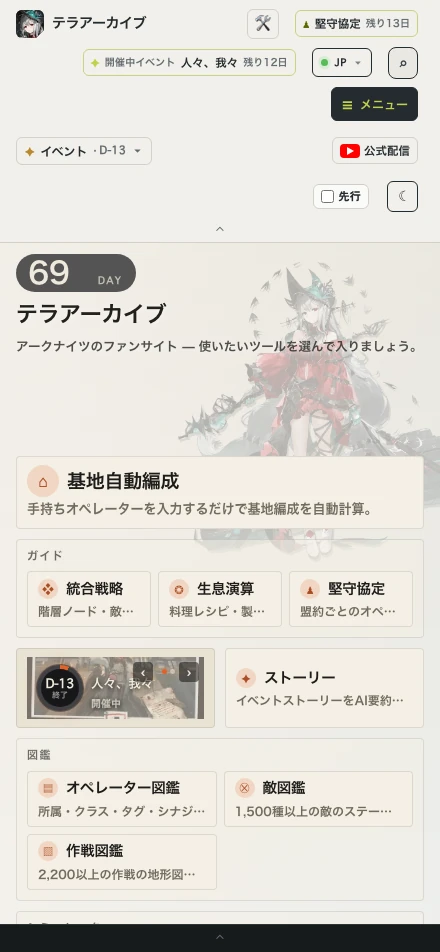
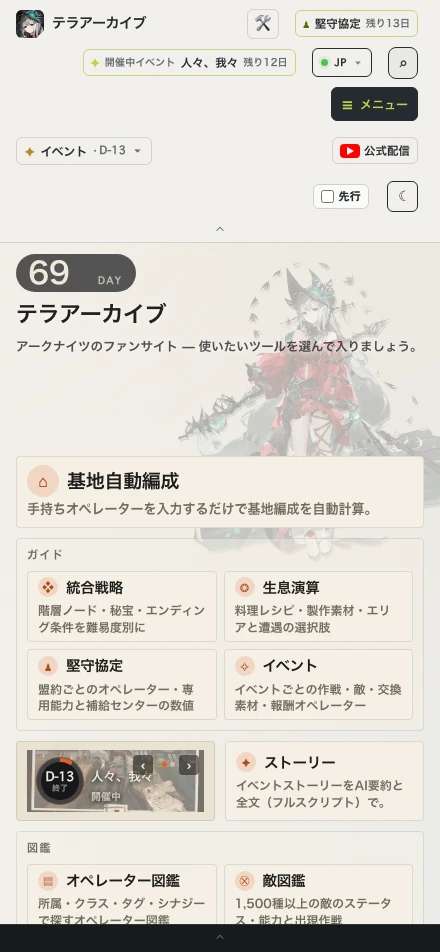
홈 타일 설명은 자르지 말고 줄을 바꾼다 + 소개 홈 스샷 재촬영
묶음 셋을 한 줄에 세우며 칸이 200px 안팎으로 좁아지자, 한 줄 + …로 자르던
설명이 열 몇 자에서 끊겼다 — "층별 노드·적 도감·유물·엔…" 처럼 뜻이 끊긴
토막만 남고 마우스를 올려도 확인할 길이 없었다 (사용자 제보).

설명이 줄을 바꿔 다 보이게 하고, 문구 자체를 좁은 칸 두 줄에 맞춰 줄였다.
영어는 한국어보다 한참 길어(최대 85자) 네 줄이 필요했던 탓에 여섯 칸이
잘리고 있었다 — 한·영·일 열두 줄을 전부 다시 썼다. 작전 시뮬레이터 설명은
사전에 아예 없어 EN/JA에 한국어가 그대로 나가던 것도 이번에 채웠다.

1920·1440·1024·940과 모바일, 세 언어 모두 잘림 0을 확인했다.

소개 페이지의 홈 화면 스샷 12장(3언어 × 라이트/다크 × 데스크탑/모바일)을
다시 찍어 R2에 올리고 SHOT_VER를 20260917b로 올렸다 — 종전 키가 이미 엣지에
박혀 있어 같은 날짜로는 새 캡처가 안 나간다.

diff --git a/app/i18n.tsx b/app/i18n.tsx
@@ -207,9 +207,9 @@ const D: Record<string, Pair> = {
 
   // 포탈 첫화면 (루트 /)
   "명일방주(아크나이츠) 팬사이트 — 필요한 도구를 골라 들어가세요.": ["An Arknights fansite — pick a tool and dive in.", "アークナイツのファンサイト — 使いたいツールを選んで入りましょう。"],
-  "소속·직군·태그·시너지로 필터·검색하는 오퍼레이터 도감": ["Operator database you can filter and search by faction, class, tag, and synergy.", "所属・クラス・タグ・シナジーで絞り込み検索できるオペレーター図鑑。"],
+  "소속·직군·태그·시너지로 찾는 오퍼레이터 도감": ["Operators by faction, class, tag and synergy", "所属・クラス・タグ・シナジーで探すオペレーター図鑑"],
   "보유 오퍼만 입력하면 기반시설 편성을 자동으로 계산": ["Enter your roster and it auto-builds your RIIC base layout.", "手持ちオペレーターを入力するだけで基地編成を自動計算。"],
-  "공개모집 태그 조합으로 확정·고성급 오퍼를 탐색": ["Find guaranteed and high-rarity operators from recruitment tag combos.", "公開求人タグの組み合わせから確定・高レアオペレーターを探索。"],
+  "공개모집 태그 조합으로 확정·고성급 탐색": ["Guaranteed and high-rarity picks from tag combos", "公開求人タグの組み合わせから確定・高レアを探索"],
   "재료 파밍 효율표와 오퍼 육성 비용 시뮬레이션": ["Material farming efficiency table and operator upgrade-cost simulator.", "素材周回効率表とオペレーター育成コストシミュレーション。"],
   "이벤트 스토리를 컷씬과 함께 10분 분량으로 요약": ["Event stories summarized with cutscenes in a 10-minute read.", "イベントストーリーをカットシーンと共に10分で要約。"],
   "각 기능이 무엇이고 언제 쓰는지 안내": ["What each tool is and when to use it.", "各機能が何で、いつ使うのかを案内。"],
@@ -1964,7 +1964,7 @@ const D: Record<string, Pair> = {
   "게임에 표기된 빈도입니다. 실측 드랍률과 이성 효율은 재료파밍 도우미에서 봅니다.": ["These are the in-game frequency labels. For measured drop rates and sanity efficiency, see the Material Farming Helper.", "ゲーム内表記の頻度です。実測ドロップ率と理性効率は素材周回ヘルパーで確認できます。"],
   "작전 도감 - 명일방주 스테이지 지형·드랍 | 테라 아카이브": ["Stage Handbook - Arknights Stage Maps & Drops | Terra Archive", "作戦図鑑 - アークナイツ ステージ地形・ドロップ | テラアーカイブ"],
   "{code} {name} - 명일방주 작전 | 테라 아카이브": ["{code} {name} - Arknights Stage | Terra Archive", "{code} {name} - アークナイツ 作戦 | テラアーカイブ"],
-  "작전 2,200여 개의 지형 도면과 등장 적·드랍": ["Terrain layouts, enemies and drops for 2,200+ stages", "2,200以上の作戦の地形図と出現する敵・ドロップ"],
+  "작전 2,200여 개의 도면과 등장 적·드랍": ["Layouts, enemies and drops for 2,200+ stages", "2,200以上の作戦の地形図と敵・ドロップ"],
 
   // ── 공개채용 도우미 ────────────────────────────────────────────────────────────
   "공개모집 도우미": ["Recruitment helper", "公開求人ヘルパー"],
@@ -2013,8 +2013,8 @@ const D: Record<string, Pair> = {
   "재료파밍 도우미": ["Material Farming Helper", "素材周回ヘルパー"],
   "오퍼 육성 시뮬": ["Upgrade Sim", "育成シミュ"],
   "육성 비용 계산": ["Upgrade cost", "育成コスト"],
-  "정예화 재료의 최적 파밍 스테이지와 이성 효율표": ["Best farming stages and sanity efficiency for Elite materials", "昇進素材の最適ステージと理性効率表"],
-  "오퍼 육성에 필요한 용문폐·재료 총량을 단계별로 계산": ["Calculate the LMD and materials needed to upgrade operators, step by step", "オペレーター育成に必要な龍門幣・素材の合計を段階ごとに計算"],
+  "정예화 재료의 최적 파밍지와 이성 효율표": ["Best farming stages and sanity efficiency", "昇進素材の最適ステージと理性効率表"],
+  "육성에 필요한 용문폐·재료 총량을 단계별로 계산": ["LMD and materials to reach your upgrade goals", "育成に必要な龍門幣・素材の合計を段階ごとに計算"],
   "재료파밍 도우미 - 명일방주 재료 파밍 효율표 | 테라 아카이브": ["Material Farming Helper - Arknights Material Farming Efficiency | Terra Archive", "素材周回ヘルパー - アークナイツ素材周回効率表 | テラアーカイブ"],
   "오퍼 육성 시뮬 - 명일방주 육성 비용 계산기 | 테라 아카이브": ["Operator Upgrade Sim - Arknights Upgrade Cost Calculator | Terra Archive", "オペレーター育成シミュ - アークナイツ育成コスト計算機 | テラアーカイブ"],
   "재료 파밍 & 오퍼 육성 시뮬레이션": ["Material Farming & Operator Upgrade Simulator", "素材周回＆オペレーター育成シミュレーター"],
@@ -2328,7 +2328,7 @@ const D: Record<string, Pair> = {
   "거부반응": ["Rejection", "拒絶反応"],
   "계시": ["Revelation", "啓示"],
   "통합전략 가이드 - 명일방주 통합전략 공략 | 테라 아카이브": ["Integrated Strategies Guide - Arknights IS Guide | Terra Archive", "統合戦略ガイド - アークナイツ統合戦略攻略 | テラアーカイブ"],
-  "층별 노드·적 도감·유물·엔딩 조건을 난이도별로 정리": ["Floor nodes, enemy handbook, relics, and ending requirements by difficulty", "階層ノード・敵図鑑・秘宝・エンディング条件を難易度別に整理"],
+  "층별 노드·유물·엔딩 조건을 난이도별로 정리": ["Floor nodes, relics and endings by difficulty", "階層ノード・秘宝・エンディング条件を難易度別に"],
   "이 테마는 CN 선행 데이터라 아직 한국어·중국어로만 제공됩니다.": ["This theme is based on advance CN-server data and is only available in Korean/Chinese for now.", "このテーマはCN先行データのため、現在は韓国語・中国語のみの提供です。"],
   "다른 테마는 준비 중": ["Other themes coming soon", "他のテーマは準備中"],
   "준비 중": ["Coming soon", "準備中"],
@@ -3143,8 +3143,8 @@ const D: Record<string, Pair> = {
   "{n}마리": ["{n} of them", "{n}体"],
   "처치 시 자금 {n}": ["{n} funds on kill", "撃破で資金{n}"],
   "승리 시 자금 {n}": ["{n} funds on win", "勝利で資金{n}"],
-  "맹약별 오퍼레이터·전용 능력·특훈 적·보급센터 수치를 정리": ["Operators by alliance, garrison abilities, training enemies and Supply Center numbers", "盟約ごとのオペレーター・専用能力・訓練用仮想敵・補給センターの数値"],
-  "이벤트별 작전·등장 적·교환 재화·보상 오퍼를 한자리에": ["Operations, enemies, exchange currencies and welfare operators, per event", "イベントごとの作戦・出現する敵・交換素材・報酬オペレーターをまとめて"],
+  "맹약별 오퍼레이터·전용 능력과 보급센터 수치": ["Alliance operators, abilities and Supply Center data", "盟約ごとのオペレーター・専用能力と補給センターの数値"],
+  "이벤트별 작전·적·교환 재화·보상 오퍼": ["Operations, enemies, currencies and welfare operators", "イベントごとの作戦・敵・交換素材・報酬オペレーター"],
   "맹약(진영·특성)별 오퍼레이터와 각자의 위수 협의 전용 능력, 특훈 적과 리더 적, 보급센터 수치를 게임 데이터에서 그대로 정리했습니다.": [
     "Operators grouped by alliance (nation and trait) with the garrison ability each one carries, plus Tactical Training and leader enemies and every Supply Center number — straight from the game data.",
     "盟約（国家・特性）ごとのオペレーターとそれぞれの専用能力、訓練用仮想敵とリーダー級の敵、補給センターの数値をゲームデータからそのまま整理しました。"],
@@ -3478,9 +3478,10 @@ const D: Record<string, Pair> = {
   "처음부터 고를 수 있는 전략입니다.": [
     "This strategy is available from the start.", "最初から選べる戦略です。"],
   // 포탈 타일 설명 — 사전에서 빠져 있어 EN/JA에 한국어가 나가던 두 줄 (2026-08-22 발견)
-  "요리 조합·제작 재료·지역과 조우 선택지를 정리": ["Recipes, crafting materials, areas and encounter choices", "料理レシピ・製作素材・エリアと遭遇の選択肢"],
-  "적 1,500여 종의 스탯·능력·면역과 등장 작전": ["Stats, abilities and immunities for 1,500+ enemies, plus where they appear", "1,500種以上の敵のステータス・能力・耐性と出現作戦"],
+  "요리 조합·제작 재료·지역과 조우 선택지": ["Recipes, materials, areas and encounter choices", "料理レシピ・製作素材・エリアと遭遇の選択肢"],
+  "적 1,500여 종의 스탯·능력과 등장 작전": ["Stats, abilities and appearances for 1,500+ enemies", "1,500種以上の敵のステータス・能力と出現作戦"],
   "아이템 1,400여 종의 설명·용도·획득처": ["Descriptions, uses and sources for 1,400+ items", "1,400種以上のアイテムの説明・用途・入手先"],
+  "적이 언제 어디서 나와 어디로 가는지 재생": ["When and where enemies spawn, and where they go", "敵がいつどこに現れどこへ向かうかを再生"],
 };
 
 export type T = (key: string, vars?: Record<string, string | number>) => string;

diff --git a/app/portal-themes.ts b/app/portal-themes.ts
@@ -44,37 +44,37 @@ export const PORTAL_TILES: PortalTile[] = [
   { id: "banner", label: "진행중 이벤트", area: "banner", kind: "banner", icon: "✦" },
   // ── 도감 묶음 (헤더 메뉴와 같은 구성) ──
   { id: "operator", label: "오퍼 백과사전", tab: "archive", area: "dex", kind: "plate", group: "dex",
-    desc: "소속·직군·태그·시너지로 필터·검색하는 오퍼레이터 도감", icon: "▤" },
+    desc: "소속·직군·태그·시너지로 찾는 오퍼레이터 도감", icon: "▤" },
   { id: "enemy", label: "적 도감", tab: "enemy", area: "dex", kind: "plate", group: "dex",
-    desc: "적 1,500여 종의 스탯·능력·면역과 등장 작전", icon: "⊗" },
+    desc: "적 1,500여 종의 스탯·능력과 등장 작전", icon: "⊗" },
   { id: "stage", label: "작전 도감", tab: "stage", area: "dex", kind: "plate", group: "dex",
-    desc: "작전 2,200여 개의 지형 도면과 등장 적·드랍", icon: "▨" },
+    desc: "작전 2,200여 개의 도면과 등장 적·드랍", icon: "▨" },
   // 아이템 도감은 헤더 메뉴의 도감 묶음에만 있고 홈 타일에서 빠져 있었다 (2026-09-17).
   // 시뮬레이터 상자와 같은 4칸 구성이 된다.
   { id: "item", label: "아이템 도감", tab: "item", area: "dex", kind: "plate", group: "dex",
     desc: "아이템 1,400여 종의 설명·용도·획득처", icon: "◇" },
   // ── 시뮬레이터 묶음 (헤더 메뉴와 같은 구성 + 작전 시뮬레이터) ──
   { id: "recruit", label: "공개채용 도우미", tab: "recruit", area: "sim", kind: "plate", group: "sim",
-    desc: "공개모집 태그 조합으로 확정·고성급 오퍼를 탐색", icon: "◎" },
+    desc: "공개모집 태그 조합으로 확정·고성급 탐색", icon: "◎" },
   { id: "base", label: "재료파밍 도우미", tab: "farm", area: "sim", kind: "plate", group: "sim",
-    desc: "정예화 재료의 최적 파밍 스테이지와 이성 효율표", icon: "◈" },
+    desc: "정예화 재료의 최적 파밍지와 이성 효율표", icon: "◈" },
   { id: "depot", label: "오퍼 육성 시뮬", tab: "upgrade", area: "sim", kind: "plate", group: "sim",
-    desc: "오퍼 육성에 필요한 용문폐·재료 총량을 단계별로 계산", icon: "▦" },
+    desc: "육성에 필요한 용문폐·재료 총량을 단계별로 계산", icon: "▦" },
   { id: "simulate", label: "작전 시뮬레이터", tab: "sim", area: "sim", kind: "plate", group: "sim",
-    desc: "적이 언제 어디서 나와 어디로 가는지 작전 흐름을 재생", icon: "▶" },
+    desc: "적이 언제 어디서 나와 어디로 가는지 재생", icon: "▶" },
   { id: "story", label: "스토리", tab: "story", area: "story", kind: "plate",
     desc: "이벤트 스토리를 AI 요약과 전문(풀 스크립트)으로", icon: "✦" },
   // 게임 모드 공략 3종은 '가이드' 묶음 상자로 (사용자 확정 2026-08-22) — 헤더 메뉴와 같은 구성
   { id: "squads", label: "통합전략", tab: "rogue", area: "guide", kind: "plate", group: "guide",
-    desc: "층별 노드·적 도감·유물·엔딩 조건을 난이도별로 정리", icon: "❖" },
+    desc: "층별 노드·유물·엔딩 조건을 난이도별로 정리", icon: "❖" },
   { id: "ra", label: "생존연산", tab: "ra", area: "guide", kind: "plate", group: "guide",
-    desc: "요리 조합·제작 재료·지역과 조우 선택지를 정리", icon: "❂" },
+    desc: "요리 조합·제작 재료·지역과 조우 선택지", icon: "❂" },
   { id: "autochess", label: "위수협의", tab: "autochess", area: "guide", kind: "plate", group: "guide",
-    desc: "맹약별 오퍼레이터·전용 능력·특훈 적·보급센터 수치를 정리", icon: "♟" },
+    desc: "맹약별 오퍼레이터·전용 능력과 보급센터 수치", icon: "♟" },
   // 이벤트도 가이드 묶음 (사용자 지시 2026-09-17) — 헤더 메뉴의 GUIDE_TABS 와 같은 구성.
   // 자료를 뒤지는 도감이 아니라 "이 콘텐츠를 보러 간다"는 결이라 여기 들어간다.
   { id: "event", label: "이벤트", tab: "event", area: "guide", kind: "plate", group: "guide",
-    desc: "이벤트별 작전·등장 적·교환 재화·보상 오퍼를 한자리에", icon: "✧" },
+    desc: "이벤트별 작전·적·교환 재화·보상 오퍼", icon: "✧" },
   { id: "archives", label: "테라 아카이브 소개", tab: "about", area: "archives", kind: "plate",
     desc: "각 기능이 무엇이고 언제 쓰는지 안내", icon: "ⓘ" },
   // 제안 보내기 타일은 뺐다 (사용자 지시 2026-08-10) — 떠 있는 💬 제안 버튼과 중복.

diff --git a/app/globals.css b/app/globals.css
@@ -12124,23 +12124,25 @@ html.dark .pt-stage {
 .pt-t-terminal .pt-ko { font-size: clamp(20px, 2.4vw, 29px); }
 .pt-t-terminal .pt-ic { width: 32px; height: 32px; font-size: 16px; }
 .pt-t-terminal .pt-desc { font-size: 13px; }
-/* 큰 칸 가운데를 채우는 한 줄 설명 — 게임에선 이성 시계가 있던 자리 */
-/* 홈 타일 설명은 **한 줄 + …** 로 통일한다 (사용자 지시 2026-08-26: "너비가 모자라면
-   …으로, 지금은 좀 길면 두 줄로 넘어간다").
+/* 칸 가운데를 채우는 설명 — 게임에선 이성 시계가 있던 자리 */
+/* **줄을 바꿔 다 보여준다** (사용자 지시 2026-09-17: "설명이 짤리면 개행을 하면 되지 왜
+   …하고 짜른 후에 마우스오버해도 보이지도 않고").
+   종전엔 한 줄 + … 였다 (2026-08-26). 그때는 상자가 가로로 넓어 한 줄에 다 들어갔지만,
+   묶음 셋을 한 줄에 세우면서 칸이 200px 안팎으로 좁아져 열 몇 자에서 잘렸다 — 남는 건
+   "층별 노드·적 도감·유물·엔…" 처럼 뜻이 끊긴 토막이고, title 속성도 없어 확인할 길이
+   없었다. 이제 줄바꿈으로 두 줄까지 자연히 흐르게 두고, 문구 자체를 두 줄에 맞춰 줄였다.
    ⚠ -webkit-line-clamp 는 여기서 **안 먹는다**. .pt-tile 이 세로 flex 라 자식의
-     display:-webkit-box 가 블록화되어 flow-root 로 계산된다 (실측 2026-08-26:
-     computed display=flow-root, clamp=1 인데 높이 8.5px 로 짜부라짐). 그래서 제목(.pt-ko)이
-     쓰는 것과 같은 nowrap + ellipsis 로 자른다 — 이건 flex 자식에서도 확실히 동작한다. */
+     display:-webkit-box 가 블록화되어 flow-root 로 계산된다 (실측 2026-08-26). */
 .pt-desc {
   font-size: 12px;
   font-weight: 600;
-  line-height: 1.45;
+  line-height: 1.4;
   color: var(--pt-mut);
-  overflow: hidden;
-  text-overflow: ellipsis;
-  white-space: nowrap;
-  flex: none;            /* 세로 flex 에서 눌려 사라지지 않게 */
+  white-space: normal;
+  overflow-wrap: anywhere;   /* 긴 낱말이 칸을 밀지 않게 */
+  flex: none;                /* 세로 flex 에서 눌려 사라지지 않게 */
 }
+/* 넓은 칸(인프라·스토리·소개)은 종전처럼 한 줄이면 충분하다 — 넘치면 그때 줄을 바꾼다 */
 /* 이벤트 배너 칸 — 게이지(이성 시계 자리) + 배너 이미지 */
 .pt-banner {
   padding: 0;

diff --git a/app/about.tsx b/app/about.tsx
@@ -26,7 +26,7 @@ type ShotPair = { d: string; m: string };
 // 옛 캡처가 남는데, 쿼리가 바뀌면 새 캐시 키라 전부 즉시 새로 받는다 (2026-08-02).
 // ⚠ 순서 주의: 이 값을 올린 뒤 r2-sync 전에 /about을 열면, 새 쿼리 키에 옛 이미지가
 // 엣지 캐시(max-age 14400)로 4시간 박힌다. r2-sync를 먼저 돌리고 나서 올릴 것 (2026-08-13).
-const SHOT_VER = "20260917";
+const SHOT_VER = "20260917b";
 const SHOTS: Partial<Record<Tab, ShotPair>> = {
   archive: { d: "/about/archive.webp", m: "/about/archive-m.webp" },
   planner: { d: "/about/planner.webp", m: "/about/planner-m.webp" },
